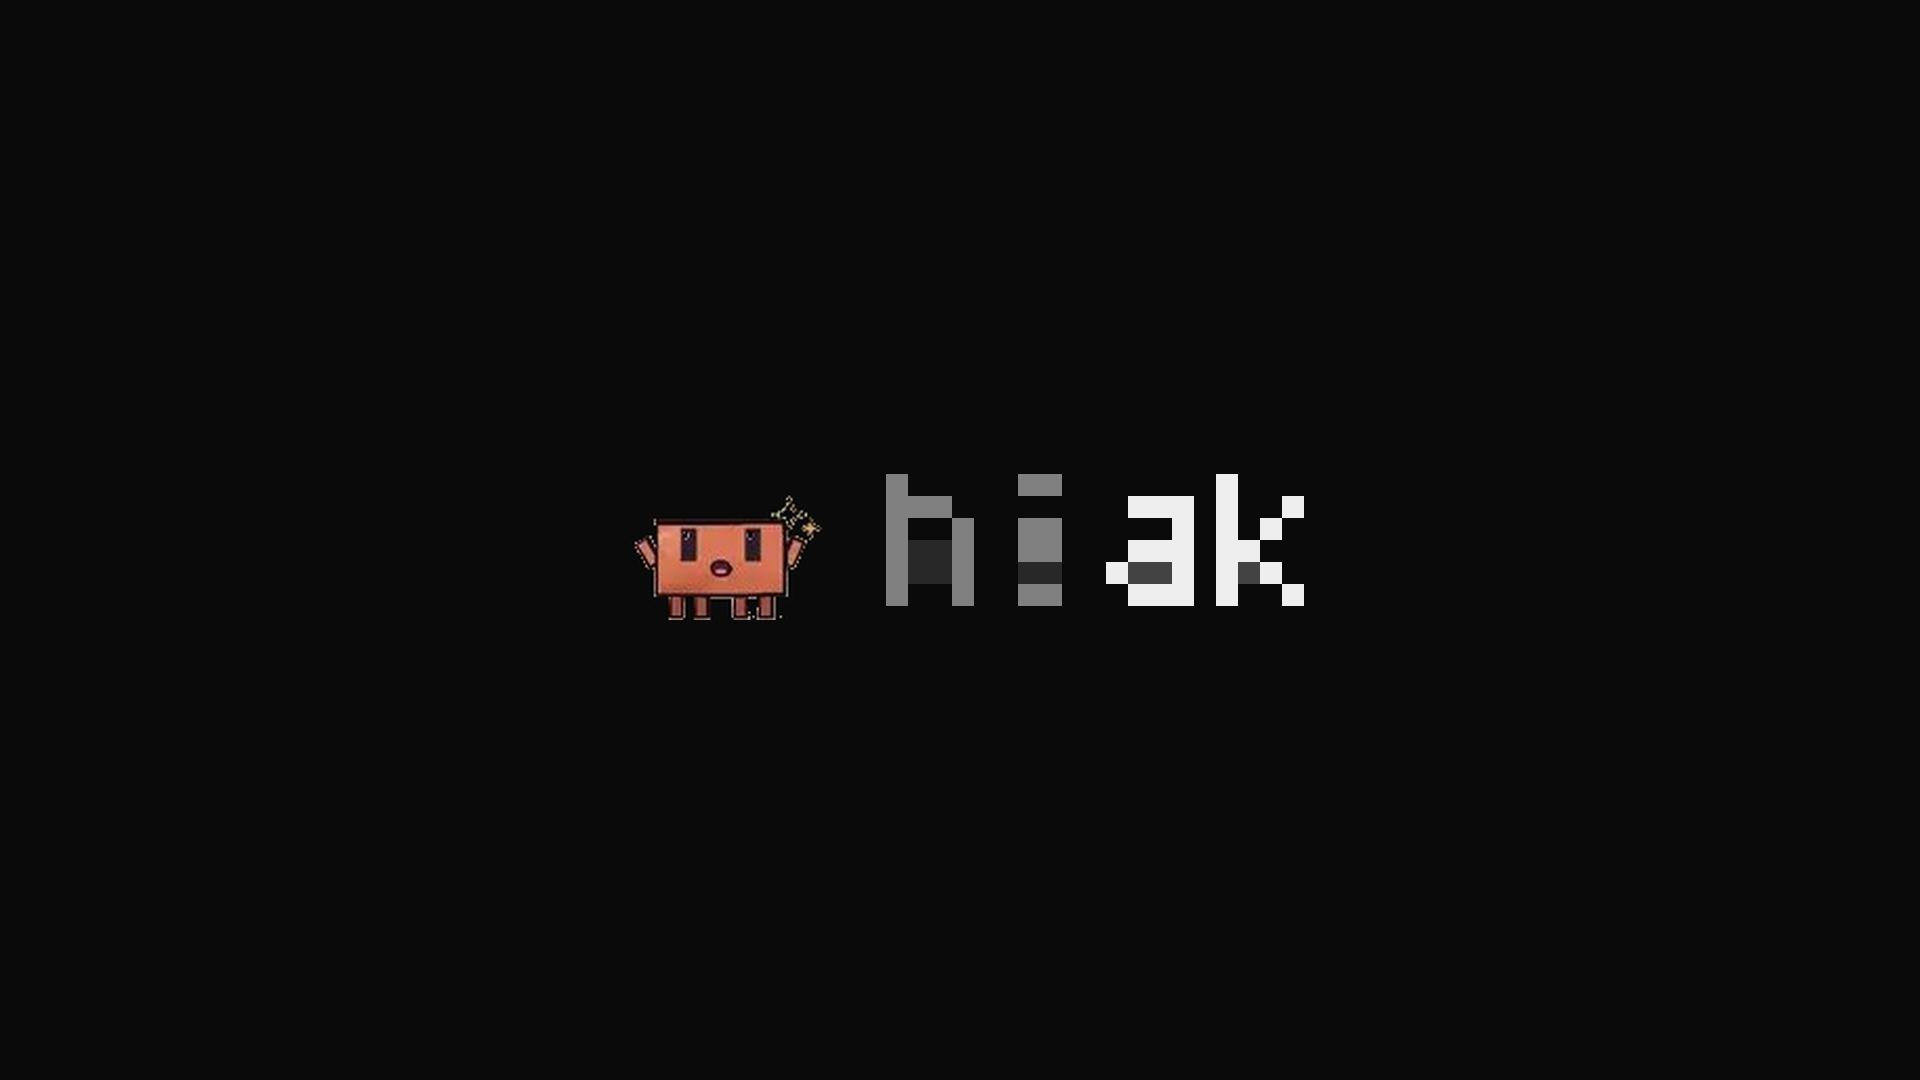
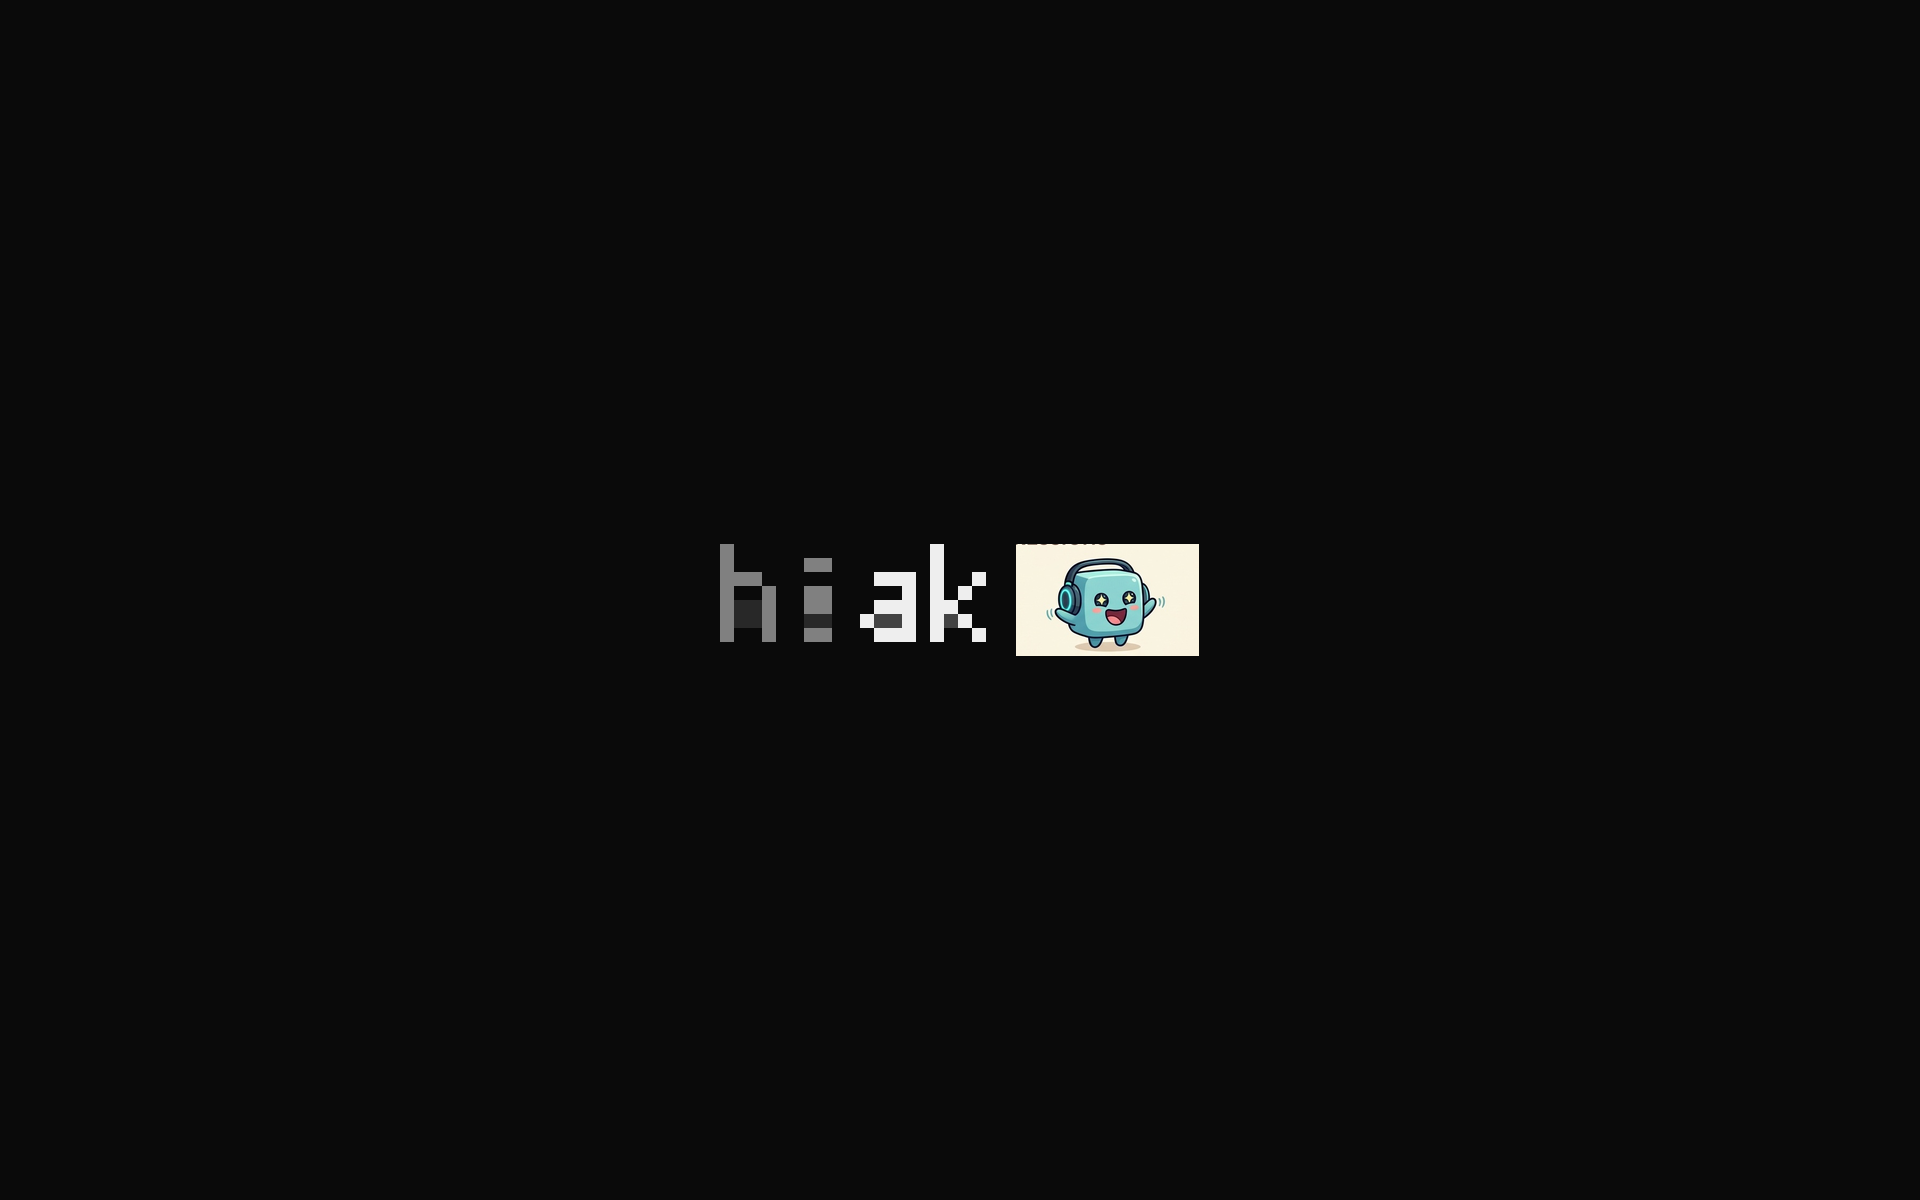
Reformat wallpapers to medium scale 14px dead-center on native 1920x1200 canvas

Changed region(s): [[0.3125, 0.4278, 0.6875, 0.5806]]

diff --git a/core/reformat_wallpapers.py b/core/reformat_wallpapers.py
@@ -1,0 +1,110 @@
+"""
+Reformat Wallpaper Suite for Medium Scale & Exact 1920x1200 Center Alignment
+- Native 1920x1200 16:10 canvas matching monitor resolution (no zoom/crop)
+- Medium 14px unit-block grid (exact OpenCode aesthetic standard)
+- Perfectly centered horizontally (X=960) and vertically (Y=600)
+- Applies to all 7 HIAK poses & all HIAK <-> HARSHA Cyber-Bot morph frames
+"""
+import sys
+from pathlib import Path
+from PIL import Image
+
+STUDIO_ROOT = Path(__file__).parent.parent.resolve()
+sys.path.insert(0, str(STUDIO_ROOT))
+
+from core.opencode_font import render_opencode_image, BG
+from core.pixel_morph import generate_morph_text_image
+
+MASCOTS_DIR = STUDIO_ROOT / "assets" / "mascots" / "hiak"
+BOT_DIR = STUDIO_ROOT / "assets" / "mascots" / "cyber_bot"
+WALLPAPERS_DIR = STUDIO_ROOT / "assets" / "wallpapers"
+POSES_DIR = WALLPAPERS_DIR / "poses"
+MORPH_DIR = WALLPAPERS_DIR / "poses_hiak_harsha_morph"
+
+SCREEN_W = 1920
+SCREEN_H = 1200
+SCALE = 14          # Medium OpenCode scale: 8 rows * 14px = 112px height
+TARGET_H = 112      # Exact lockup height
+SPACING = 30        # Spacing between logo and mascot
+
+
+def composite_centered(text_img: Image.Image, mascot_img: Image.Image, canvas_w=SCREEN_W, canvas_h=SCREEN_H) -> Image.Image:
+    canvas = Image.new("RGB", (canvas_w, canvas_h), BG)
+    
+    # Scale mascot to match TARGET_H (112px)
+    m_ratio = TARGET_H / mascot_img.height
+    target_w = int(mascot_img.width * m_ratio)
+    scaled_mascot = mascot_img.resize((target_w, TARGET_H), Image.Resampling.LANCZOS)
+    
+    # Calculate exact center bounding box
+    total_w = text_img.width + SPACING + target_w
+    start_x = (canvas_w - total_w) // 2
+    start_y = (canvas_h - TARGET_H) // 2
+
+    canvas.paste(text_img, (start_x, start_y), text_img)
+    canvas.paste(scaled_mascot, (start_x + text_img.width + SPACING, start_y), scaled_mascot)
+    return canvas
+
+
+def reformat_all():
+    print(f"📐 Reformatting wallpapers to {SCREEN_W}x{SCREEN_H} (Medium Scale {SCALE}px, Dead-Center)...")
+    
+    # 1. Base HIAK logo at scale 14
+    hiak_logo = render_opencode_image("hiak", scale=SCALE, bg_color=None)
+    
+    # 2. Re-render 7 HIAK poses in assets/wallpapers/poses
+    POSES_DIR.mkdir(parents=True, exist_ok=True)
+    pose_files = [
+        ("1_neutral.png", "neutral.png"),
+        ("2_happy.png", "happy.png"),
+        ("3_wave.png", "excited.png"),
+        ("4_idea.png", "idea.png"),
+        ("5_cool.png", "cool.png"),
+        ("6_coding.png", "coding.png"),
+        ("7_sleepy.png", "sleepy.png")
+    ]
+    for out_name, m_file in pose_files:
+        m_img = Image.open(str(MASCOTS_DIR / m_file)).convert("RGBA")
+        wp = composite_centered(hiak_logo, m_img)
+        wp.save(str(POSES_DIR / out_name), quality=95)
+    print("  ✅ 7 HIAK desktop poses updated (1920x1200 medium centered)")
+
+    # 3. Re-render HIAK <-> HARSHA Cyber-Bot morph sequence
+    MORPH_DIR.mkdir(parents=True, exist_ok=True)
+    stages = [
+        (0.0, MASCOTS_DIR / "neutral.png", "1_1_hiak_solid.png"),
+        (0.0, MASCOTS_DIR / "cool.png", "2_2_hiak_cool.png"),
+        (0.3, MASCOTS_DIR / "thinking.png", "3_3_dissolve_start.png"),
+        (0.65, MASCOTS_DIR / "excited.png", "4_4_glitch_midway.png"),
+        (0.9, BOT_DIR / "coding.png", "5_5_harsha_forming.png"),
+        (1.0, BOT_DIR / "coding.png", "6_6_harsha_cyber_bot_coding.png"),
+        (1.0, BOT_DIR / "happy.png", "7_7_harsha_cyber_bot_happy.png"),
+        (0.5, MASCOTS_DIR / "starstruck.png", "8_8_morph_return.png"),
+    ]
+    
+    frames_1200p = []
+    for prog, m_path, out_name in stages:
+        m_img = Image.open(str(m_path)).convert("RGBA")
+        text_img = generate_morph_text_image("hiak", "harsha", prog, scale=SCALE)
+        wp = composite_centered(text_img, m_img)
+        wp.save(str(MORPH_DIR / out_name), quality=95)
+        frames_1200p.append(wp)
+        
+    # Also save standard 6_6_harsha_coding.png alias for backwards compatibility
+    frames_1200p[5].save(str(MORPH_DIR / "6_6_harsha_coding.png"))
+
+    # Save animated morph GIF
+    gif_path = WALLPAPERS_DIR / "hiak_harsha_morph.gif"
+    frames_1200p[0].save(
+        str(gif_path),
+        save_all=True,
+        append_images=frames_1200p[1:],
+        duration=[1200, 1000, 250, 300, 350, 1200, 1000, 350],
+        loop=0,
+        optimize=True
+    )
+    print("  ✅ Morph sequence & animated GIF updated (1920x1200 medium centered)")
+
+
+if __name__ == "__main__":
+    reformat_all()

diff --git a/core/wallpaper_animator.py b/core/wallpaper_animator.py
@@ -137,16 +137,14 @@ def play_desktop_pixel_morph(duration: float = 3.0):
 
 def is_over_text(pt_x: int, pt_y: int, screen_w: int, screen_h: int) -> bool:
     """
-    Checks if cursor is over the 'hiak' text area on the desktop wallpaper.
-    Accounts for 1920x1080 aspect ratio filling 1920x1200 or 1920x1080 screens.
+    Checks if cursor is over the 'hiak' text area on the 1920x1200 medium centered wallpaper.
     """
     scale_x = screen_w / 1920.0
-    scale_y = screen_h / 1080.0
-    # Generous text hitbox: roughly center-right of the lockup
-    min_x = int(720 * scale_x)
-    max_x = int(1420 * scale_x)
-    min_y = int(460 * scale_y)
-    max_y = int(760 * scale_y)
+    scale_y = screen_h / 1200.0
+    min_x = int(660 * scale_x)
+    max_x = int(1150 * scale_x)
+    min_y = int(500 * scale_y)
+    max_y = int(700 * scale_y)
     return (min_x <= pt_x <= max_x) and (min_y <= pt_y <= max_y)
 
 
